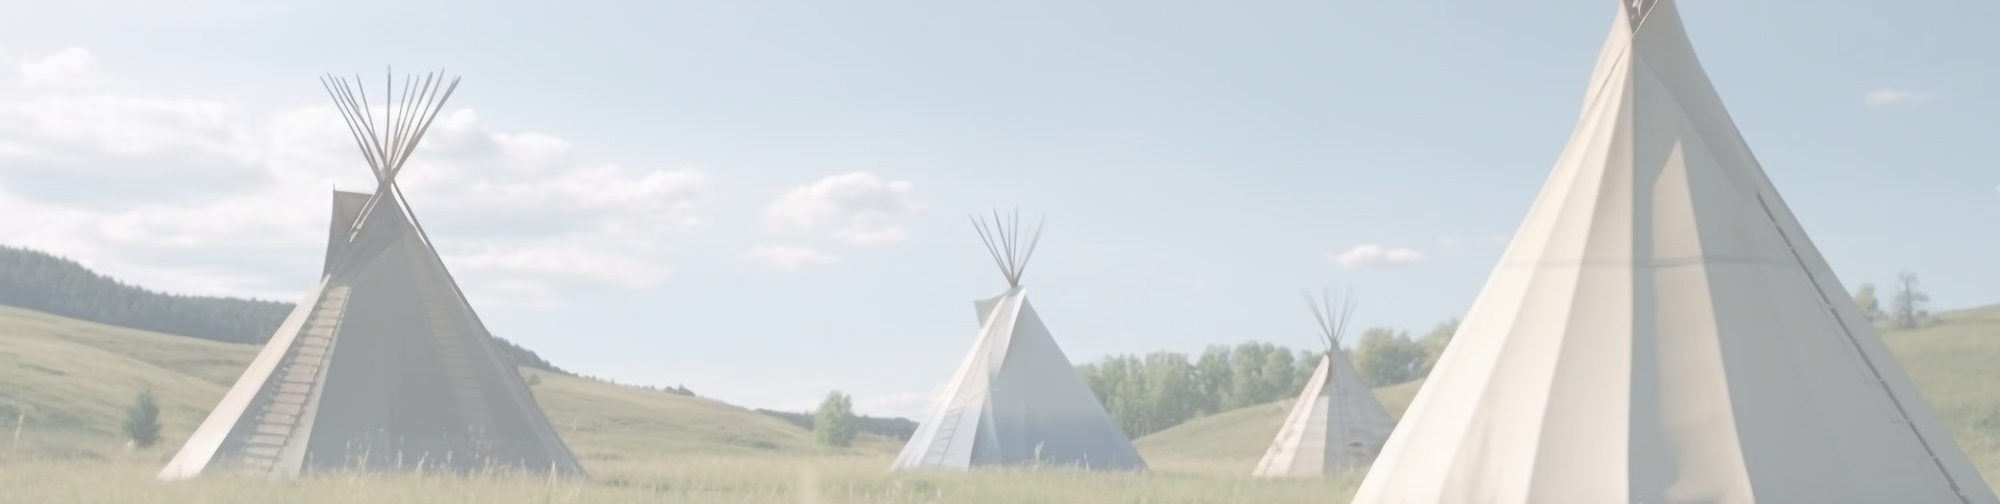
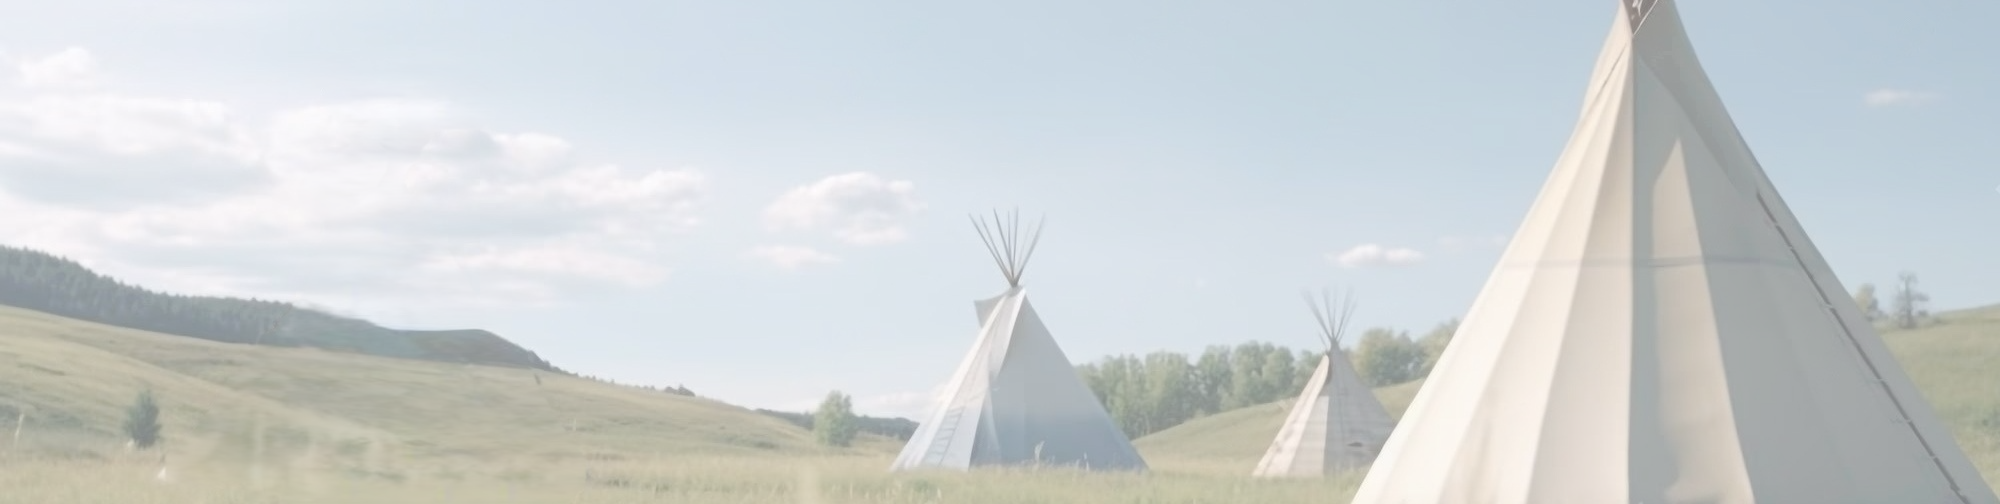
dsdfss

Changed region(s): [[0.062, 0.1488, 0.31, 0.9524]]

diff --git a/community.html b/community.html
@@ -3,18 +3,15 @@
 <head>
   <meta charset="UTF-8" />
   <meta name="viewport" content="width=device-width, initial-scale=1.0" />
-  <title>Home</title>
+  <title>Communities</title>
   <link rel="stylesheet" href="CSS/stylesheet.css" />
-
-  <style>
-  </style>
 </head>
 <body>
   <!-- Navigational Bar -->
   <header>
     <table>
 
-      <th><h1>Treaty 1</h1></th>
+      <th><h1 class="treaty1">Treaty 1</h1></th>
 
       <!-- Navigation links -->
       <nav>
@@ -36,39 +33,37 @@
           
           <p>Treaty 1 involves these following Indigenous communities:</p>
           
-          <ul><li><p>Brokenhead Ojibway Nation:</p></li></ul>
+          <ul><li><p class="bulletPoints">Brokenhead Ojibway Nation:</p></li></ul>
           <p>Brokenhead Ojibway Nation is a community of Indigenous people who are part of the Ojibwa group. They live in an area in Manitoba. They have their own culture and traditions, and they take care of their land and the environment.</p>
           
-          <ul><li><p>Peguis First Nation:</p></li></ul>
+          <ul><li><p class="bulletPoints">Peguis First Nation:</p></li></ul>
           <p>Peguis First Nation is a community of Indigenous people who belong to the Cree group. They live in Manitoba as well. They have a rich history and culture, and they traditionally relied on hunting and gathering for their food and resources.</p>
 
-          <ul><li><p>Long Plain First Nation:</p></li></ul>
+          <ul><li><p class="bulletPoints">Long Plain First Nation:</p></li></ul>
           <p>Long Plain First Nation is another Indigenous community in Manitoba. They are part of the Dakota group. The Dakota people have their own language and traditions, and they have a strong connection to the land.</p>
         
-          <ul><li><p>Roseau River Anishinaabe First Nation:</p></li></ul>
+          <ul><li><p class="bulletPoints">Roseau River Anishinaabe First Nation:</p></li></ul>
           <p>Roseau River Anishinaabe First Nation is a community of Indigenous people who are part of the Anishinaabe (Ojibwe) group. They live in Manitoba and have a unique culture and language. They have a deep connection to nature and the water.</p>
           
-          <ul><li><p>Sagkeeng First Nation:</p></li></ul>
+          <ul><li><p class="bulletPoints">Sagkeeng First Nation:</p></li></ul>
           <p>Sagkeeng First Nation is a community of Indigenous people living in Manitoba. They are part of the Anishinaabe (Ojibwe) group. They have their own traditions and beliefs, and they have a strong relationship with the land and the forests.</p>
 
-          <ul><li><p>Sandy Bay Ojibway First Nation:</p></li></ul>
+          <ul><li><p class="bulletPoints">Sandy Bay Ojibway First Nation:</p></li></ul>
           <p>Sandy Bay Ojibway First Nation is a community of Indigenous people who belong to the Ojibwa group. They live in Manitoba and have their own way of life, including using natural resources for their needs.</p>
 
-          <ul><li><p>Swan Lake First Nation:</p></li></ul>
+          <ul><li><p class="bulletPoints">Swan Lake First Nation:</p></li></ul>
           <p>Swan Lake First Nation is an Indigenous community in Manitoba. They are part of the Dakota group. They have their own unique customs, language, and history, and they have a strong connection to the land.</p>
         </td>
         <td>
-          <figure><img src="Images/2f6a33b33b2ffcac5cd2f99012c90bbb.jpg" alt="This is a picture of Lower Fort Garry where the treaty 1 was negotiated and signed. It is a drone shot that shows the entire propert from a bird's point of view." width="650" height="400" /></figure>
-          <figcaption><a class="link" style="padding-left: 355px;" href="https://www.pinterest.ca/pin/365847169714610668/" target="_blank">Link to the picture of Lower Fort Garry</a></figcaption>
-        </td>
-        <tr>
-          <td></td>
-          <td>
-            <!-- This is the link to the background image of 3 tipis, If you click on the link, it will give you an error code 403, so just click on the url and press enter and it should work. I dont know how but it just happens -->
-            <figcaption><a class="link" style="padding-left: 445px;" href="https://www.freepik.com/premium-photo/tipi-tents-field-first-nations-tipi-near-whitehorse-village_41933618.htm" target="_blank">Link to background picture</a></figcaption>
-          </td>
-        </tr>
-        
+          <figure><img src="Images/people1.jpg" alt="A picture of an indigenous man in cultural clothing and wearing sunglasses. There are a bunch of other people in the background in traditional clothing. Some of them are sitting in a chair." width="650" height="400" /></figure>
+          <figcaption><a class="link" style="padding-left: 210px;" href="https://www.cbc.ca/news/indigenous/brokenhead-ojibway-nation-arbour-powwow-1.6548945" target="_blank">Link to the picture of Brokenhead Ojibway Nation people</a></figcaption>
+
+          <figure><img src="Images/people3.jpg" alt="A bunch of people wearing different clothing ranging from formal clothing to cultural clothing are marching holding some sort of a flag." width="650" height="400" /></figure>
+          <figcaption><a class="link" style="padding-left: 275px;" href="" target="_blank">Link to the picture of Peguis First Nation people</a></figcaption>
+
+          <figure><img src="Images/people2.jpg" alt="A young boy wearing cultural clothing at POWWOW. There are a bunch of other people in the background wearing more traditional clothes and holding flag like things." width="650" height="400" /></figure>
+          <figcaption><a class="link" style="padding-left: 250px;" href="https://www.portageonline.com/articles/long-plain-pow-wow-committee-member-thankful-for-a-great-weekend" target="_blank">Link to the picture of Long Plain First Nation people</a></figcaption>
+        </td>        
       </tr>
     </table>
     <br />

diff --git a/moreInfo.html b/moreInfo.html
@@ -1,0 +1,62 @@
+<!DOCTYPE html>
+<html lang="en">
+<head>
+  <meta charset="UTF-8" />
+  <meta name="viewport" content="width=device-width, initial-scale=1.0" />
+  <title>More Information</title>
+  <link rel="stylesheet" href="CSS/stylesheet.css" />
+</head>
+<body>
+  <!-- Navigational Bar -->
+  <header>
+    <table>
+
+      <th><h1 class="treaty1">Treaty 1</h1></th>
+
+      <!-- Navigation links -->
+      <nav>
+        <div class="nav-link">
+          <th style="padding-left: 650px;"><a class="nav-link" href="index.html">Home</a></th>
+          <th><a class="nav-link" href="community.html">Communities</a></th>
+          <th><a class="nav-link" href="treatyTerms.html">Terms Of Treaty</a></th>
+          <th><a class="nav-link" href="moreInfo.html">More Information</a></th>
+        </div>
+      </nav>
+    </table>
+  </header>
+  
+  <main>
+    <table>
+      <tr>
+        <td>
+          <h2>What makes this Treaty different from other Treaties in Canada?</h2>
+          <p>Treaty 1 is like a unique handshake agreement between the Canadian government and specific Indigenous groups in a special area (Manitoba). What makes it different from other treaties is that it was made in a different place with different Indigenous nations, so the rules and promises in Treaty 1 are not exactly the same as in other treaties. It's a bit like how you and your friends might have different games and rules when you play in different places. So, each treaty is special and specific to the people and land it involves.</p>
+
+          <h2>How is the Treaty implemented today?</h2>
+          <p>Today, treaties like Treaty 1 are still important, and they're used to make sure that Indigenous communities have a good life. Here's how they work now:</p>
+            <ul><li><p class="bulletPoints">Urban Reserves:</p></li></ul><p>Some Indigenous communities have special areas within cities, called urban reserves. These reserves are like a piece of their traditional land in the city. They can use these areas for housing, businesses, and cultural activities. It's a way for Indigenous people to keep their culture alive, even in the city.</p>
+            <ul><li><p class="bulletPoints">Economic Development:</p></li></ul><p>Treaties also help Indigenous communities with businesses and jobs. For example, some communities have gas stations, stores, or other businesses. These businesses can provide jobs and money to support the community. So, treaties help with economic development, making life better for the people in those communities.</p>
+            <p>Treaties are not just old agreements; they are still used today to support the well-being and growth of Indigenous communities.</p>
+
+        </td>
+        <td>
+          <figure><img src="Images/building.jpg" alt="A picture of a huge grey building with the Treaty 1 flag in front of it." width="650" height="400" /></figure>
+          <figcaption><a class="link" style="padding-left: 390px;" href="https://peguisfirstnation.ca/peguis-first-nation-acquires-land-in-treaty-1-territory/" target="_blank">Link to the picture of the building</a></figcaption>
+
+          <figure><img src="Images/speech.jpg" alt="An old man giving a speech on a wooden stand, there are a bunch of other people standing behind him." width="650" height="400" /></figure>
+          <figcaption><a class="link" style="padding-left: 380px;" href="https://peguisfirstnation.ca/grand-opening-one-stop-fisher-branch/" target="_blank">Link to the picture of public speech</a></figcaption>
+        </td>
+      </tr>
+    </table>
+    <br />
+    <br />
+  </main>
+</body>
+
+
+
+<footer>
+  <p class="footerText">&copy; Made By Janay</p>
+  <p style="padding-left:720px;" class="footerText"><span style="color: #EEEE24;">Last Updated:</span> <span style="color: #58E458;">3<sup>rd</sup> November 2023</span></p>
+</footer>
+</html>

diff --git a/treatyTerms.html b/treatyTerms.html
@@ -1,0 +1,61 @@
+<!DOCTYPE html>
+<html lang="en">
+<head>
+  <meta charset="UTF-8" />
+  <meta name="viewport" content="width=device-width, initial-scale=1.0" />
+  <title>Terms Of The Treaty</title>
+  <link rel="stylesheet" href="CSS/stylesheet.css" />
+</head>
+<body>
+  <!-- Navigational Bar -->
+  <header>
+    <table>
+
+      <th><h1 class="treaty1">Treaty 1</h1></th>
+
+      <!-- Navigation links -->
+      <nav>
+        <div class="nav-link">
+          <th style="padding-left: 650px;"><a class="nav-link" href="index.html">Home</a></th>
+          <th><a class="nav-link" href="community.html">Communities</a></th>
+          <th><a class="nav-link" href="treatyTerms.html">Terms Of Treaty</a></th>
+          <th><a class="nav-link" href="moreInfo.html">More Information</a></th>
+        </div>
+      </nav>
+    </table>
+  </header>
+  
+  <main>
+    <table>
+      <tr>
+        <td>
+          <h2>What are the historic terms of the Treaty, meaning what was included in the Treaty?</h2>
+          <p>Treaty 1, like many historical treaties, had some important terms. Here are some of the key things included in the Treaty:</p>
+            <ul><li><p class="bulletPoints">Land Sharing:</p></li></ul><p>The Indigenous people agreed to share their land with the Canadian government. In exchange, the government promised to provide reserves where Indigenous families could live, hunt, and fish. These reserves were like special areas set aside for them.</p>
+            <ul><li><p class="bulletPoints">Payments:</p></li></ul><p>The government agreed to give the Indigenous families money, which they called annuities. These payments were made every year to help the families. The amount was set in the treaty.</p>
+            <ul><li><p class="bulletPoints">Education and Healthcare:</p></li></ul><p>The government promised to provide schools and healthcare services for the Indigenous people living on the reserves.</p>
+            <ul><li><p class="bulletPoints">Hunting and Fishing Rights:</p></li></ul><p>The Indigenous people were allowed to continue hunting and fishing on the land they didn't give up. This was important for their way of life and culture.</p>
+            <ul><li><p class="bulletPoints">Peace and Friendship:</p></li></ul><p>Both sides promised to be friends and live peacefully. The Indigenous people agreed not to make trouble with settlers, and the government promised to protect the Indigenous people and their way of life.</p>
+
+        </td>
+        <td>
+          <figure><img src="Images/handshake.jpg" alt="A picture of 2 men shaking hands, one is dresed in cultural traditional clothing and the other is wearing clothes of a governor general. The background consists of grass, river, sunrise, tipis and a hatchet burried in the ground." width="650" height="400" /></figure>
+          <figcaption><a class="link" style="padding-left: 300px;" href="https://www.gov.mb.ca/legislature/about/land_acknowledgement.html" target="_blank">Link to the picture of 2 people shaking hands</a></figcaption>
+
+          <figure><img src="Images/document.jpg" alt="The offical treaty 1 document with the title and a few paragraphs." width="650" height="400" /></figure>
+          <figcaption><a class="link" style="padding-left: 300px;" href="https://www.thecanadianencyclopedia.ca/en/article/numbered-treaties" target="_blank">Link to the picture of Treaty 1 Document</a></figcaption>
+        </td>
+      </tr>
+    </table>
+    <br />
+    <br />
+  </main>
+</body>
+
+
+
+<footer>
+  <p class="footerText">&copy; Made By Janay</p>
+  <p style="padding-left:720px;" class="footerText"><span style="color: #EEEE24;">Last Updated:</span> <span style="color: #58E458;">3<sup>rd</sup> November 2023</span></p>
+</footer>
+</html>

diff --git a/index.html b/index.html
@@ -11,7 +11,7 @@
   <header>
     <table>
 
-      <th><h1>Treaty 1</h1></th>
+      <th><h1 class="treaty1">Treaty 1</h1></th>
 
       <!-- Navigation links -->
       <nav>
@@ -26,7 +26,7 @@
   </header>
   
   <main>
-    <table style="margin-top:5px; margin-bottom: 5px; border-radius: 5px; background-image:url(Images/output-onlinepngtools.png)">
+    <table style="margin-top:5px; margin-bottom: 5px; border-radius: 5px; background-image: url('Images/output-onlinepngtools.png'); background-repeat: no-repeat;">
       <tr>
         <td>
           <h2>Where was the Treaty 1 negotiated?</h2>
@@ -36,14 +36,13 @@
           <figure><img src="Images/2f6a33b33b2ffcac5cd2f99012c90bbb.jpg" alt="This is a picture of Lower Fort Garry where the treaty 1 was negotiated and signed. It is a drone shot that shows the entire propert from a bird's point of view." width="650" height="400" /></figure>
           <figcaption><a class="link" style="padding-left: 355px;" href="https://www.pinterest.ca/pin/365847169714610668/" target="_blank">Link to the picture of Lower Fort Garry</a></figcaption>
         </td>
-        <tr>
-          <td></td>
-          <td>
-            <!-- This is the link to the background image of 3 tipis, If you click on the link, it will give you an error code 403, so just click on the url and press enter and it should work. I dont know how but it just happens -->
-            <figcaption><a class="link" style="padding-left: 445px;" href="https://www.freepik.com/premium-photo/tipi-tents-field-first-nations-tipi-near-whitehorse-village_41933618.htm" target="_blank">Link to background picture</a></figcaption>
-          </td>
-        </tr>
-        
+      </tr>
+      <tr>
+        <td></td>
+        <td>
+          <!-- This is the link to the background image of 3 tipis, If you click on the link, it will give you an error code 403, so just click on the url and press enter and it should work. I dont know how but it just happens -->
+          <figcaption><a class="link" style="padding-left: 445px;" href="https://www.freepik.com/premium-photo/tipi-tents-field-first-nations-tipi-near-whitehorse-village_41933618.htm" target="_blank">Link to background picture</a></figcaption>
+        </td>
       </tr>
     </table>
 

diff --git a/CSS/stylesheet.css b/CSS/stylesheet.css
@@ -1,8 +1,11 @@
+.treaty1{
+  color: #58E458;
+}
 .nav-link{
   display: inline;
   padding: 5px;
   margin: 4px;
-  color: #EEEAE2;
+  color: #EEEE24;
 }
 header{
   background-color: #171925;
@@ -64,4 +67,7 @@ footer{
 img{
   border-style:solid;
   border-radius: 25px;
+}
+.bulletPoints{
+  color: #184CB9;
 }
